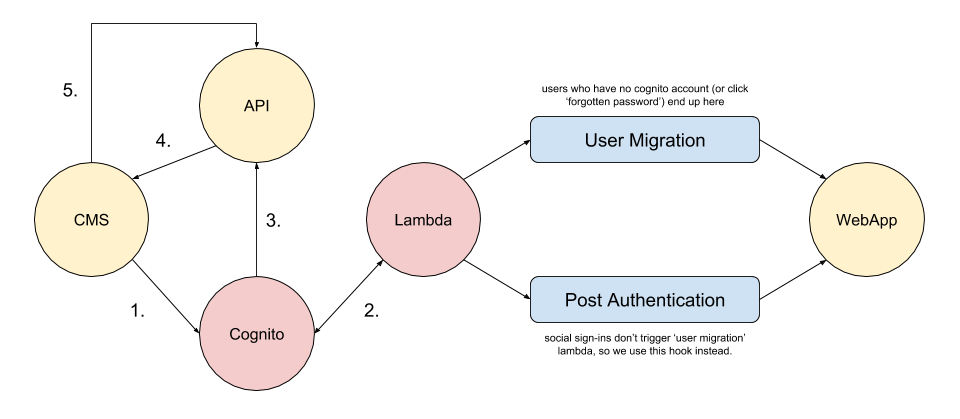
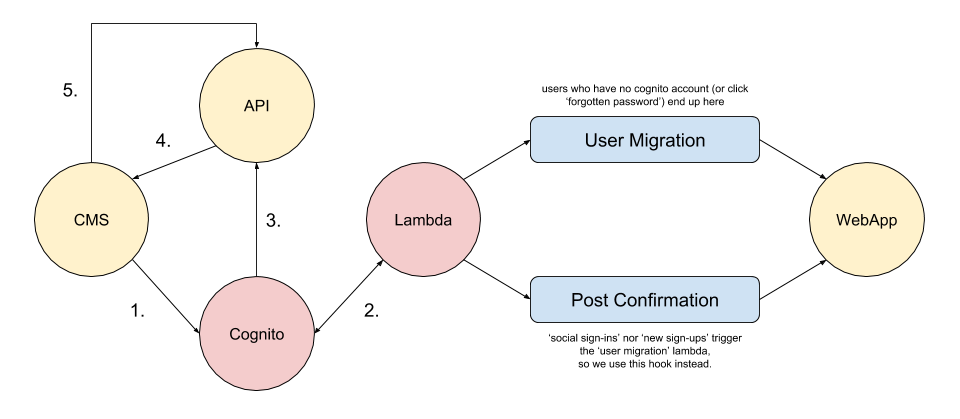
Clarification on lambda hooks and when they fire

Changed region(s): [[0.5625, 0.7757, 0.7812, 0.8998], [0.5938, 0.6826, 0.75, 0.7446]]

diff --git a/content/posts/cognito.md b/content/posts/cognito.md
@@ -194,9 +194,13 @@ It's worth noting the second half of the diagram (the section _after_ the lambda
 
 If the user has tried to authenticate using credentials that don't exist in the Cognito User Pool, then the "User Migration" lambda is triggered and once we authenticate the user within our legacy system (that is the call over to the "WebApp" in the diagram), then Cognito will create the user within its User Pool.
 
-Annoyingly we found that a social login (e.g. someone logs in using their Facebook or Google account instead of a traditional username/password), doesn't cause the 'User Migration' hook to be triggered. But we needed to process some logic when a social user attempts to sign-in and so the 'Post Authentication' hook allowed us to do that.
+Annoyingly we found that a social login (e.g. someone logs in using their Facebook or Google account instead of a traditional username/password), doesn't cause the 'User Migration' hook to be triggered. But we needed to process some logic when a social user attempts to sign-in and so the 'Post Confirmation' hook allowed us to do that.
 
 > Note: we'll explain this social login issue in more detail in the next section.
+
+But be careful and check the various lambda hooks for multiple scenarios, because they don't necessarily all work (i.e. trigger) when/how you think they do. 
+
+We originally were using 'post authentication' before moving to 'post confirmation'. This caused untold confusion because a change in our User Pool data meant our expectations of when the lambda should be triggered were challenged (meaning we were stumped for ages wondering why the lambda invocations and CloudWatch logs were all empty).
 
 ## Legacy System
 
